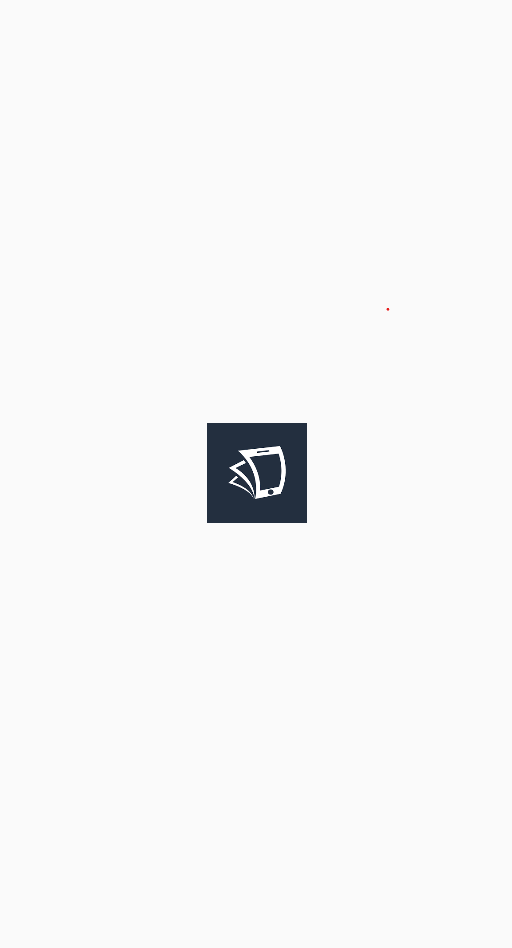
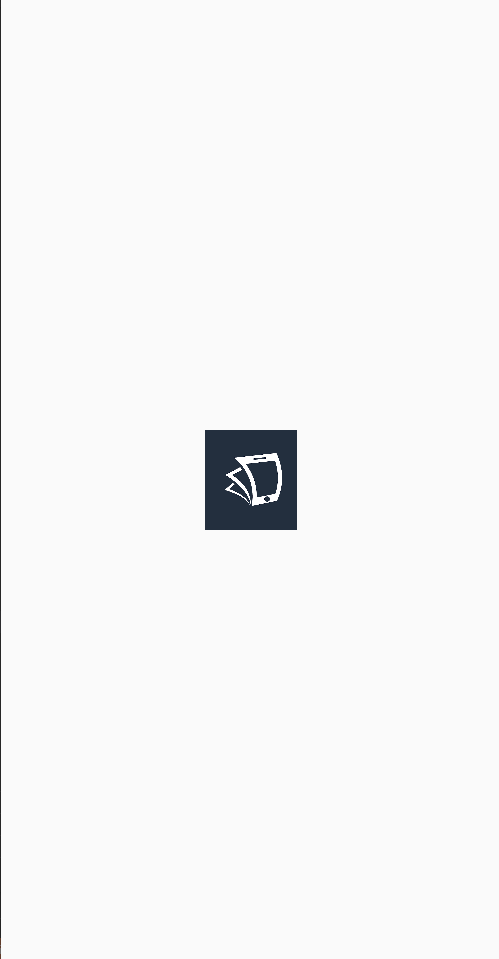
draft

Changed region(s): [[0.4509, 0.4283, 0.6012, 0.5506], [0.3908, 0.4283, 0.4208, 0.5506]]

diff --git a/lib/screens/practice_13.dart b/lib/screens/practice_13.dart
@@ -11,7 +11,7 @@ class Practice13 extends StatelessWidget {
       backgroundColor:Colors.white,
       body: Center(
         child: Container(
-          height: 400,
+          height: 350,
           width: 300, 
           decoration: BoxDecoration(
           color: Color.fromARGB(255, 192, 192, 192),
@@ -21,8 +21,8 @@ class Practice13 extends StatelessWidget {
         MainAxisAlignment.center,
         children: [
           Container(
-            height: 80,
-          width: 80,
+            height: 120,
+          width: 120,
             decoration: const BoxDecoration(
                borderRadius: BorderRadius.all(Radius.circular(80)),
                color: Color(0xff222e3e)),
@@ -43,31 +43,30 @@ class Practice13 extends StatelessWidget {
           height: 12,
           ),
           Text("Follow us",
-          style: TextStyle(fontSize: 10,
-          fontWeight: FontWeight.bold,
+          style: TextStyle(fontSize: 18,
           color: Colors.black),
           ),
           SizedBox(
-          height: 12,
+          height: 16,
           ),
           Row(mainAxisAlignment: MainAxisAlignment.spaceEvenly,
           children: [
             Container(
-              height: 50,
-              width: 50,
+              height: 60,
+              width: 60,
               padding:  EdgeInsets.all(8.0),
               child: Image.asset("images/facebook.png"),  
             ),
             Container(
-              height: 50,
-              width: 50,
+              height: 60,
+              width:60,
               padding:  EdgeInsets.all(8.0),
               child: Image.asset("images/twitter.png"),
               
             ),
             Container(
-              height: 50,
-              width: 50,
+              height: 60,
+              width: 60,
               padding:  EdgeInsets.all(8.0),
               child: Image.asset("images/instagram.png"),
               

diff --git a/lib/screens/practice_14.dart b/lib/screens/practice_14.dart
@@ -1,3 +1,4 @@
+import 'package:flutter/material.dart';
 import 'package:flutter/src/widgets/container.dart';
 import 'package:flutter/src/widgets/framework.dart';
 
@@ -6,6 +7,36 @@ class Practice14 extends StatelessWidget {
 
   @override
   Widget build(BuildContext context) {
-    return Container();
+    return Scaffold(
+      backgroundColor:Colors.white,
+      body: Center(
+        child: Container(
+          height: 200,
+          width: 200, 
+          decoration: BoxDecoration(
+          color: Color.fromARGB(50, 192, 192, 192),
+          borderRadius: BorderRadius.circular(10)),
+          child: 
+       Column(mainAxisAlignment:
+        MainAxisAlignment.center,
+        children: [
+          Container(
+            height: 80,
+            width: 80,
+            child: Image.asset("images/facebook.png"),  
+            ),
+          SizedBox(
+          height: 20,
+          ),
+          Text("Facebook",
+          style: TextStyle(fontSize: 20,
+          color: Colors.black),
+          ),
+          ],
+        ),
+        ),
+        
+        ),
+        );
   }
 }

diff --git a/lib/main.dart b/lib/main.dart
@@ -4,6 +4,7 @@ import 'package:ui_practice/screens/practice_10.dart';
 import 'package:ui_practice/screens/practice_11.dart';
 import 'package:ui_practice/screens/practice_12.dart';
 import 'package:ui_practice/screens/practice_13.dart';
+import 'package:ui_practice/screens/practice_14.dart';
 import 'package:ui_practice/screens/practice_16.dart';
 import 'package:ui_practice/screens/practice_2.dart';
 import 'package:ui_practice/screens/practice_3.dart';
@@ -31,7 +32,7 @@ class MyApp extends StatelessWidget {
       theme: ThemeData(
         primarySwatch: Colors.blue,
       ),
-      home: Practice13(),
+      home: Practice14(),
     );
   }
 }

diff --git a/lib/screens/practice_4.dart b/lib/screens/practice_4.dart
@@ -12,11 +12,13 @@ class Practice4 extends StatelessWidget {
               child: Container(
                 height: 50,
                 width: 150,
+                
                   child: ElevatedButton(
                   child: const Text("Click Me"), 
                   onPressed: (){},
                   style:
                    ElevatedButton.styleFrom(
+                     shape: RoundedRectangleBorder(borderRadius:BorderRadius.circular(0)),
                     textStyle:const TextStyle(fontSize:20),
                     backgroundColor: (Color.fromARGB(255, 16, 26, 51)),
           ),

diff --git a/lib/screens/practice_6.dart b/lib/screens/practice_6.dart
@@ -14,9 +14,14 @@ class Practice6 extends StatelessWidget {
                 width: 150,
                   child: OutlinedButton(
                   child: const Text("Click Me"), 
-                  onPressed: (){},)
+                  onPressed: (){},
+                  style:
+                   OutlinedButton.styleFrom(
+                     shape: RoundedRectangleBorder(borderRadius:BorderRadius.circular(0)),
+                    textStyle:const TextStyle(fontSize:20),),)
+                  )
             ,)
         ,)
-    ,);
+    ;
   }
 }

diff --git a/lib/screens/practice_5.dart b/lib/screens/practice_5.dart
@@ -14,7 +14,12 @@ class Practice5 extends StatelessWidget {
                 width: 150,
                   child: TextButton(
                   child: const Text("Click Me"),
-                  onPressed: (){},),
+                  onPressed: (){},
+                   style:
+                   TextButton.styleFrom(
+                     shape: RoundedRectangleBorder(borderRadius:BorderRadius.circular(0)),
+                    textStyle:const TextStyle(fontSize:20),),)
+                  
             ),
         ),
     );

diff --git a/lib/screens/practice_16.dart b/lib/screens/practice_16.dart
@@ -51,7 +51,7 @@ class Practice16 extends StatelessWidget {
               ],),
             ),
             Expanded(
-              child: Image.asset("images/nebula.png"),
+              child: Image.asset("images/photo.jpg"),
             ),
             Container(
               padding: EdgeInsets.all(12.0),

diff --git a/lib/screens/practice_7.dart b/lib/screens/practice_7.dart
@@ -9,7 +9,7 @@ class Practice7 extends StatelessWidget {
   Widget build(BuildContext context) {
     return Scaffold(
       body: Center(
-      child: Icon(Icons.favorite_outline_outlined),),
+        child: Icon(Icons.favorite_outline_outlined),),
     );
   }
 }
